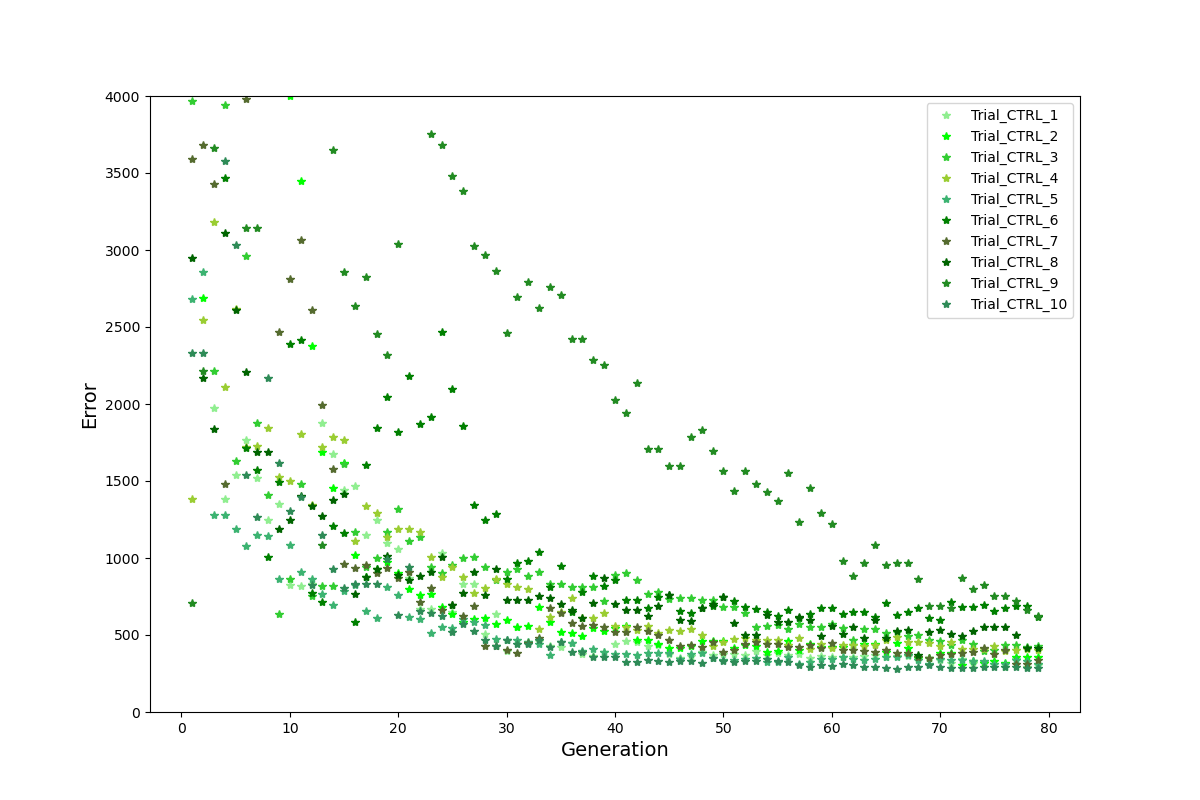
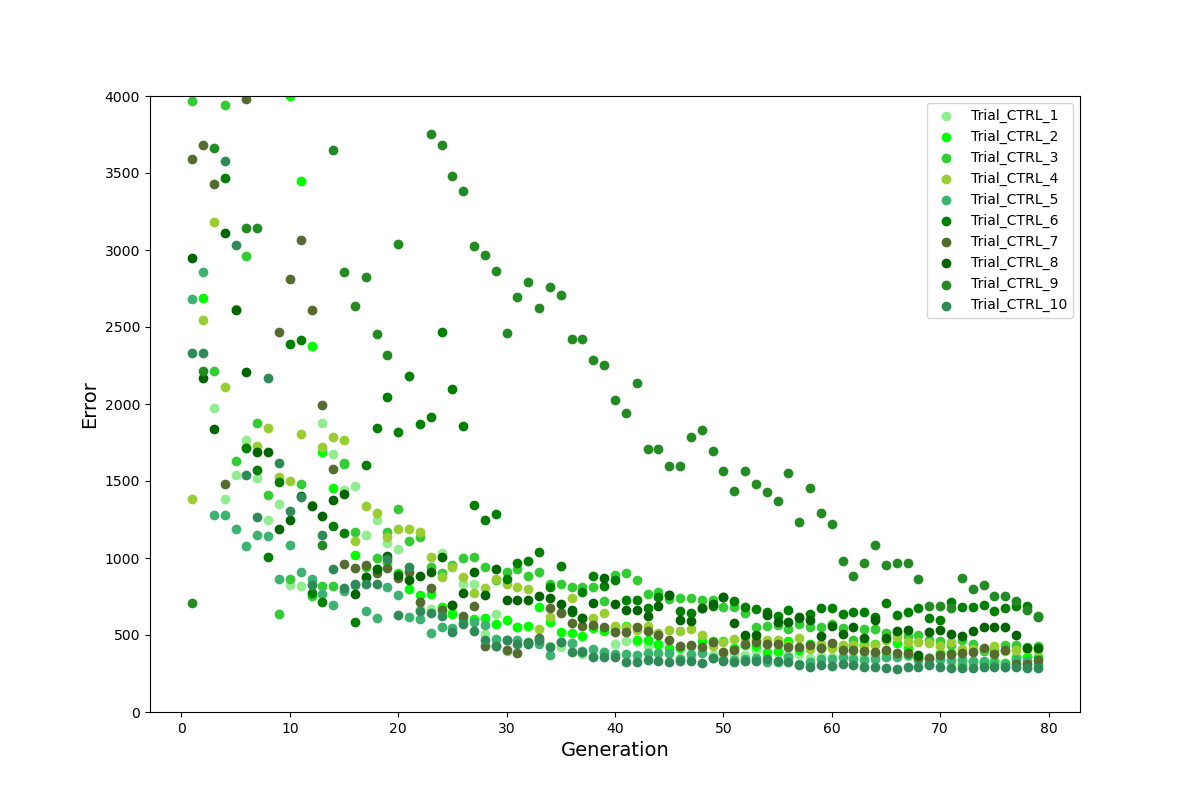
new

diff --git a/errors.py b/errors.py
@@ -1,0 +1,50 @@
+import myokit
+import matplotlib.pyplot as plt
+import pandas as pd
+import numpy as np
+from functions import baseline_run, plot_GA, ind_excel, err_excel
+import seaborn as sns
+from math import log10
+from scipy.signal import find_peaks
+
+gen = [i for i in list(range(1,80))]
+
+err_1, err_2, err_3, err_4, err_5, err_6, err_7, err_8, err_9, err_10, err_ctrl1, err_ctrl2, err_ctrl3, err_ctrl4, err_ctrl5, err_ctrl6, err_ctrl7, err_ctrl8, err_ctrl9, err_ctrl10 = err_excel()
+
+err_HCM = [err_1, err_2, err_3, err_4, err_5, err_6, err_7, err_8, err_9, err_10]
+err_CTRL = [err_ctrl1, err_ctrl2, err_ctrl3, err_ctrl4, err_ctrl5, err_ctrl6, err_ctrl7, err_ctrl8, err_ctrl9, err_ctrl10]
+
+c_HCM = ['lightsteelblue', 'cyan', 'cornflowerblue', 'c', 'darkturquoise', 'dodgerblue', 'blue', 'royalblue', 'midnightblue', 'darkblue']
+c_CTRL = ['lightgreen', 'lime', 'limegreen', 'yellowgreen', 'mediumseagreen', 'green', 'darkolivegreen', 'darkgreen', 'forestgreen','seagreen']
+
+
+########## Errors HCM ###############
+fig, axs = plt.subplots(1, 1, figsize=(12, 8))
+
+for i in list(range(0,len(err_HCM))):
+    best_err = list(err_HCM[i]['Best Error'])
+    axs.scatter(gen, best_err, color=c_HCM[i], label = f'Trial_HCM_{i+1}')
+
+axs.legend(loc='upper right')
+axs.set_ylabel('Error', fontsize=14)
+axs.set_xlabel('Generation', fontsize=14)
+axs.set_ylim(0,4000)
+
+fig.savefig('Errors_HCM.png')
+plt.show()
+
+########## Errors CTRL ##############
+
+fig, axs = plt.subplots(1, 1, figsize=(12, 8))
+
+for i in list(range(0,len(err_CTRL))):
+    best_err = list(err_CTRL[i]['Best Error'])
+    axs.scatter(gen, best_err, color=c_CTRL[i], label = f'Trial_CTRL_{i+1}')
+
+axs.legend(loc='upper right')
+axs.set_ylabel('Error', fontsize=14)
+axs.set_xlabel('Generation', fontsize=14)
+axs.set_ylim(0,4000)
+
+fig.savefig('Errors_CTRL.png')
+plt.show()

diff --git a/plot_GA.py b/plot_GA.py
@@ -32,27 +32,6 @@ axs.set_xlabel('Time (ms)', fontsize=14)
 fig.savefig('HCM.png')
 plt.show()
 
-############ PLOT BEST ERROR HCM ################
-gen = [i for i in list(range(1,80))]
-fig, axs = plt.subplots(1, 1, figsize=(12, 8))
-
-err_1, err_2, err_3, err_4, err_5, err_6, err_7, err_8, err_9, err_10, err_ctrl1, err_ctrl2, err_ctrl3, err_ctrl4, err_ctrl5, err_ctrl6, err_ctrl7, err_ctrl8, err_ctrl9, err_ctrl10 = err_excel()
-
-err_HCM = [err_1, err_2, err_3, err_4, err_5, err_6, err_7, err_8, err_9, err_10]
-err_CTRL = [err_ctrl1, err_ctrl2, err_ctrl3, err_ctrl4, err_ctrl5, err_ctrl6, err_ctrl7, err_ctrl8, err_ctrl9, err_ctrl10]
-
-for i in list(range(0,len(err_HCM))):
-    best_err = list(err_HCM[i]['Best Error'])
-    axs.plot(gen, best_err,'*', color=c_HCM[i], label = f'Trial_HCM_{i+1}')
-
-axs.legend(loc='upper right')
-axs.set_ylabel('Error', fontsize=14)
-axs.set_xlabel('Generation', fontsize=14)
-axs.set_ylim(0,4000)
-
-fig.savefig('Errors_HCM.png')
-plt.show()
-
 #%%
 ####### PLOT CTRL BEST IND ########
 fig, axs = plt.subplots(1, 1, figsize=(12, 8))
@@ -69,22 +48,6 @@ axs.set_ylabel('Voltage (mV)', fontsize=14)
 axs.set_xlabel('Time (ms)', fontsize=14)
 fig.savefig('CTRL.png')
 plt.show()
-
-############ PLOT BEST ERROR CTRL ################
-fig, axs = plt.subplots(1, 1, figsize=(12, 8))
-
-for i in list(range(0,len(err_CTRL))):
-    best_err = list(err_CTRL[i]['Best Error'])
-    axs.plot(gen, best_err,'*', color=c_CTRL[i], label = f'Trial_CTRL_{i+1}')
-
-axs.legend(loc='upper right')
-axs.set_ylabel('Error', fontsize=14)
-axs.set_xlabel('Generation', fontsize=14)
-axs.set_ylim(0,4000)
-
-fig.savefig('Errors_CTRL.png')
-plt.show()
-
 
 #%%
 
